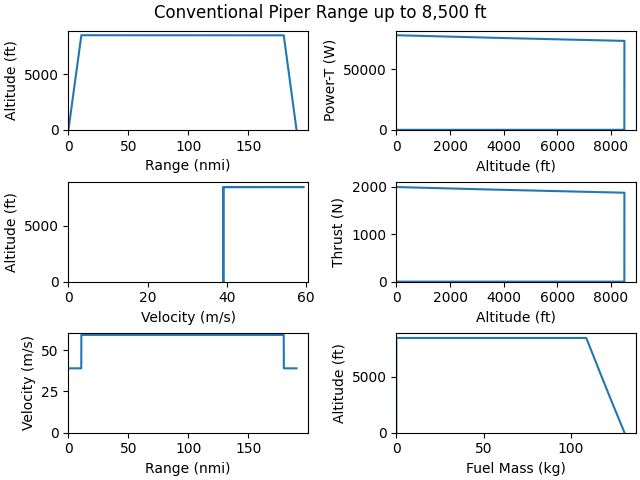
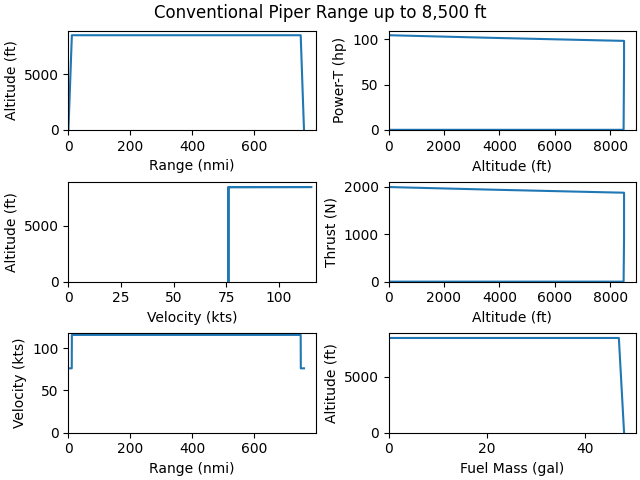
Adding the General Aviation Component

diff --git a/Plotting.py b/Plotting.py
@@ -43,12 +43,12 @@ def MyCurrentPlot(control, title):
     ax[0].set_ylabel("Altitude (ft)")
 
     ax[1].plot(control.vArr, control.AltitudeArr)
-    ax[1].set_xlabel("Velocity (m/s)")
+    ax[1].set_xlabel("Velocity (kts)")
     ax[1].set_ylabel("Altitude (ft)")
 
     ax[2].plot(control.RangeArr, control.vArr)
     ax[2].set_xlabel("Range (nmi)")
-    ax[2].set_ylabel("Velocity (m/s)")
+    ax[2].set_ylabel("Velocity (kts)")
 
     ax[3].plot(control.AltitudeArr, control.Power_ThrustArr)
     ax[3].set_ylabel("Power from Thrust (W)")
@@ -75,8 +75,8 @@ def MyCurrentPlot(control, title):
     gs = GridSpec(3, 2, figure=fig)
     if isinstance(control.aircraft, AircraftConventional):
         title = "Conventional " + title
-        power = control.EnergyMassArr
-        label5x = "Fuel Mass (kg)"
+        power = control.EnergyMassArr * 2.20462/6
+        label5x = "Fuel Mass (gal)"
     elif isinstance(control.aircraft, AircraftElectric):
         title = "Electric " + title
         power = control.percentArr
@@ -98,7 +98,7 @@ def MyCurrentPlot(control, title):
     ax1.plot(control.vArr, control.AltitudeArr)
     ax1.set_xlim(left = 0)
     ax1.set_ylim(bottom = 0)
-    ax1.set_xlabel("Velocity (m/s)")
+    ax1.set_xlabel("Velocity (kts)")
     ax1.set_ylabel("Altitude (ft)")
 
     ax2 =  fig.add_subplot(gs[2,0])
@@ -106,13 +106,13 @@ def MyCurrentPlot(control, title):
     ax2.set_xlim(left = 0)
     ax2.set_ylim(bottom = 0)
     ax2.set_xlabel("Range (nmi)")
-    ax2.set_ylabel("Velocity (m/s)")
+    ax2.set_ylabel("Velocity (kts)")
 
     ax3 = fig.add_subplot(gs[0,1])
-    ax3.plot(control.AltitudeArr, control.Power_ThrustArr)
+    ax3.plot(control.AltitudeArr, control.Power_ThrustArr * 0.00134102)
     ax3.set_xlim(left = 0)
     ax3.set_ylim(bottom = 0)
-    ax3.set_ylabel("Power-T (W)")
+    ax3.set_ylabel("Power-T (hp)")
     ax3.set_xlabel("Altitude (ft)")
 
     ax4 = fig.add_subplot(gs[1,1])

diff --git a/Performance_Classes/AircraftGA.py b/Performance_Classes/AircraftGA.py
@@ -1,0 +1,35 @@
+from Performance_Classes.Aircraft import Aircraft
+import numpy as np
+
+class AircraftGA(Aircraft):
+    def __init__(self, AircraftName, CruiseMach, CruiseAltitude, AircraftType, AircraftDictionary) -> None:
+        super().__init__(AircraftName, CruiseMach, CruiseAltitude, AircraftType, AircraftDictionary)
+        self.MaxHP = 180
+        self.MaxPower = 745.7 * self.MaxHP
+    def Climb(self, dt=10):
+        self.Atmosphere_attr()
+        self.Power_Thrust = self.MaxPower
+        #Evaluation
+        self.v = 76 * self.knots_to_mps
+        self.Thrust = self.Power_Thrust/self.v
+        self.Drag = self.Thrust
+        self.C_D = self.Drag/(self.DynamicPressure * self.S)
+
+        self.v_z = self.v_h * self.ft_to_m /60
+        self.v_x = np.sqrt(self.v**2-self.v_z**2)
+        gamma = np.arctan2(self.v_z,self.v_x) #Flight Angle
+        self.DynamicPressure = .5*self.rho*self.v**2
+        self.Weight = self.TotalMass * self.g
+        self.Lift = self.Weight * np.cos(gamma)
+        self.C_L = (self.Lift / (self.DynamicPressure * self.S))
+        self.GetC_D(self.SubComponents)
+        # self.C_D = .01
+        self.Drag = self.DynamicPressure * self.S * self.C_D
+        self.Thrust = self.Drag + (self.Weight * np.sin(gamma))
+        self.GetSC()
+        self.FuelBurn = -self.Thrust*self.TSFC*dt/self.g
+        self.Power_Thrust = self.Thrust * self.v # Terms of W
+        self.v_h = self.v_z * self.m_to_ft
+        self.Altitude += self.v_h * dt
+        self.EnergyMass += self.FuelBurn 
+        return "Climb ran successfully"

diff --git a/main.py b/main.py
@@ -23,21 +23,19 @@ CS5 = [(250, 1000, 10000, "kts"), (300, 2000, 25000, "kts"), (0.7, 500, 30000, "
 # import PySimpleGUI as sg
 
 
-ERJ175 = AircraftConventional("ERJ175", CruiseMach, CruiseAltitude, "Embraer_175", Embraer175_Dict)
-ERJ175_EV = AircraftElectric("ERJ175 EV", CruiseMach, CruiseAltitude, "Embraer_175", Embraer175_Dict)
+# ERJ175 = AircraftConventional("ERJ175", CruiseMach, CruiseAltitude, "Embraer_175", Embraer175_Dict)
+# ERJ175_EV = AircraftElectric("ERJ175 EV", CruiseMach, CruiseAltitude, "Embraer_175", Embraer175_Dict)
 PA28 = AircraftConventional("PA28", 0.18, 8500, "Piper_Archer_III", PiperArcherIII_Dict)
 
-ERJ175_control = Control(ERJ175, CS4)
-ERJ175_EV_control = Control(ERJ175_EV, CS4)
+# ERJ175_control = Control(ERJ175, CS4)
+# ERJ175_EV_control = Control(ERJ175_EV, CS4)
 PA28_control = Control(PA28, CSPip)
 
-ERJ175_control.TimestepBeta(dt = 1)
-ERJ175_EV_control.TimestepBeta(dt = 1)
-PA28_control.TimestepBeta(dt = .1)
+# ERJ175_control.TimestepBeta(dt = 1)
+# ERJ175_EV_control.TimestepBeta(dt = 1)
+PA28_control.TimestepBeta(dt = 1)
 
-MyCurrentPlot(ERJ175_EV_control, "Range up to 25,000 ft")
-MyCurrentPlot(ERJ175_control, "Range up to 25,000 ft")
+# MyCurrentPlot(ERJ175_EV_control, "Range up to 25,000 ft")
+# MyCurrentPlot(ERJ175_control, "Range up to 25,000 ft")
 MyCurrentPlot(PA28_control, "Piper Range up to 8,500 ft")
-
-
-print(f'C_q ranges from {ERJ175_control.C_DArr.min()} to {ERJ175_control.C_DArr.max()} ')
+print(PA28.Endurance/3600)

diff --git a/Performance_Classes/Control.py b/Performance_Classes/Control.py
@@ -95,7 +95,7 @@ class Control(Aircraft):
     def Add_Parameter(self, Run = True):
         if Run:
             self.AltitudeArr = np.append(self.AltitudeArr,self.aircraft.Altitude)
-            self.vArr = np.append(self.vArr, self.aircraft.v)
+            self.vArr = np.append(self.vArr, self.aircraft.v * self.mps_to_knots)
             self.RangeArr = np.append(self.RangeArr, self.aircraft.Range)
             self.Power_ThrustArr = np.append(self.Power_ThrustArr, self.aircraft.Power_Thrust)
             self.ThrustArr = np.append(self.ThrustArr,self.aircraft.Thrust)

diff --git a/Performance_Classes/Aircraft.py b/Performance_Classes/Aircraft.py
@@ -101,4 +101,6 @@ class Aircraft(Aviation):
         self.Velocity = np.array([self.v_x, self.v_y, self.v_z])
     def GetSC(self):
         self.GetTSFC(unit = 's')
+        if "PIPER" in self.AircraftType.upper():
+            self.TSFC = 19.9581/3600/self.Thrust*self.g
         return None

diff --git a/Performance_Classes/AircraftConventional.py b/Performance_Classes/AircraftConventional.py
@@ -12,6 +12,3 @@ class AircraftConventional(Aircraft):
             self.Power_Thrust = 0
             self.Emergency = "No_Energy"
             print(f'{self.AircraftName} has no fuel')
-    def GetSC(self):
-        self.GetTSFC(unit = 's')
-        return None
